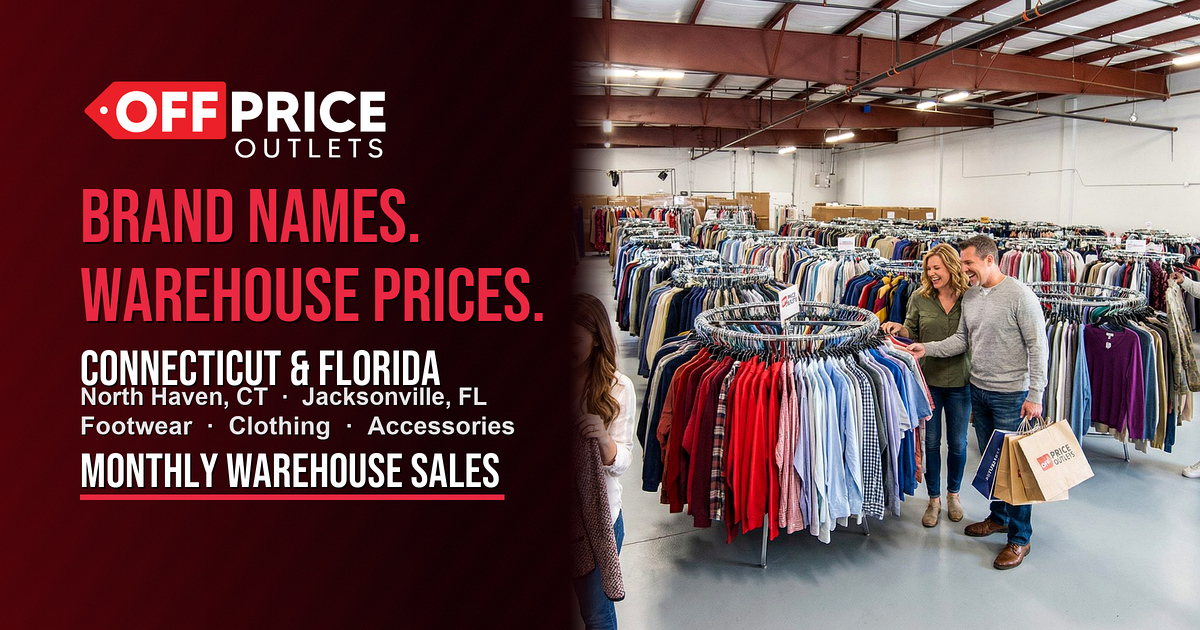
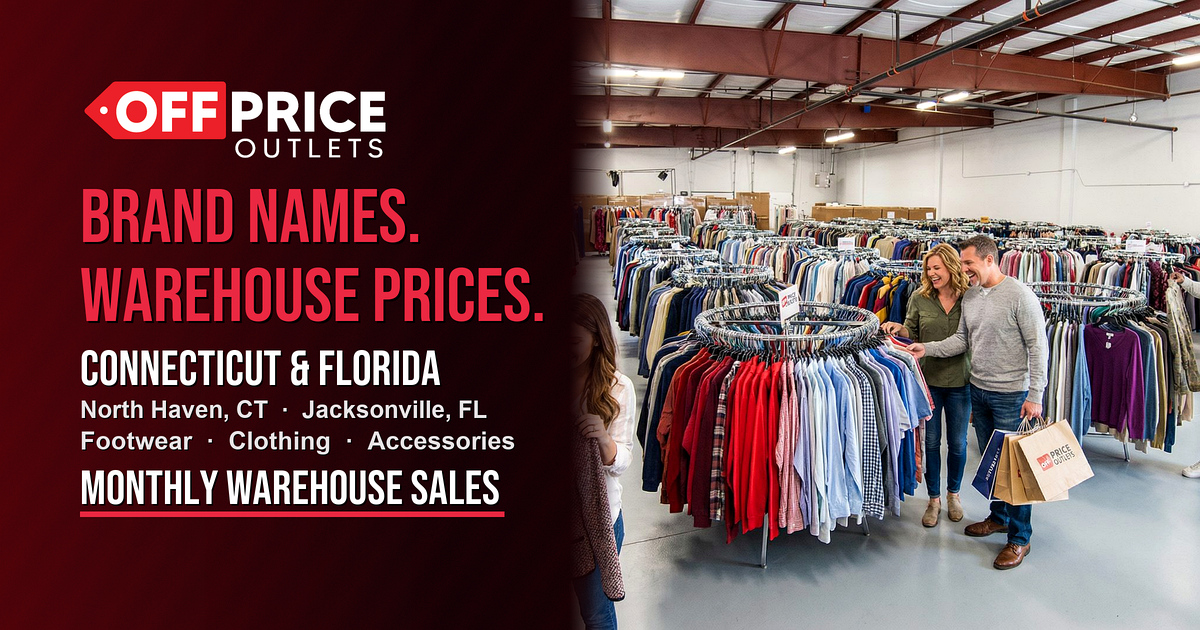
Add breathing room between state header and city lines on OG image.

Changed region(s): [[0.0617, 0.6032, 0.4317, 0.8444]]

diff --git a/index.html b/index.html
@@ -21,8 +21,8 @@
     <meta property="og:url" content="https://offpriceoutlets.com/">
     <meta property="og:title" content="Off Price Outlets | Connecticut &amp; Florida Monthly Warehouse Sales">
     <meta property="og:description" content="Two locations: North Haven, CT and Jacksonville, FL. FL grand opening Oct 10–11 · 10 AM–4 PM. Brand-name clothing, footwear &amp; accessories at warehouse prices.">
-    <meta property="og:image" content="https://offpriceoutlets.com/images/og-image.jpg?v=84">
-    <meta property="og:image:secure_url" content="https://offpriceoutlets.com/images/og-image.jpg?v=84">
+    <meta property="og:image" content="https://offpriceoutlets.com/images/og-image.jpg?v=85">
+    <meta property="og:image:secure_url" content="https://offpriceoutlets.com/images/og-image.jpg?v=85">
     <meta property="og:image:type" content="image/jpeg">
     <meta property="og:image:width" content="1200">
     <meta property="og:image:height" content="630">
@@ -32,7 +32,7 @@
     <meta name="twitter:card" content="summary_large_image">
     <meta name="twitter:title" content="Off Price Outlets | Connecticut &amp; Florida Monthly Warehouse Sales">
     <meta name="twitter:description" content="Two locations: North Haven, CT and Jacksonville, FL. FL grand opening Oct 10–11 · 10 AM–4 PM.">
-    <meta name="twitter:image" content="https://offpriceoutlets.com/images/og-image.jpg?v=84">
+    <meta name="twitter:image" content="https://offpriceoutlets.com/images/og-image.jpg?v=85">
 
     <link rel="icon" href="images/favicon.svg?v=68" type="image/svg+xml">
     <link rel="icon" href="images/favicon-32.png?v=68" type="image/png" sizes="32x32">
@@ -57,7 +57,7 @@
           "name": "Off Price Outlets",
           "url": "https://offpriceoutlets.com/",
           "logo": "https://offpriceoutlets.com/images/logo-official.png",
-          "image": "https://offpriceoutlets.com/images/og-image.jpg?v=84",
+          "image": "https://offpriceoutlets.com/images/og-image.jpg?v=85",
           "description": "Off Price Outlets hosts monthly warehouse sales with brand-name men's and women's clothing, footwear, and accessories at warehouse prices—often up to 90% off retail. Locations in North Haven, Connecticut and Jacksonville, Florida.",
           "sameAs": [
             "https://www.instagram.com/offpriceoutletsct/",
@@ -72,7 +72,7 @@
           "name": "Off Price Outlets — North Haven",
           "parentOrganization": { "@id": "https://offpriceoutlets.com/#organization" },
           "url": "https://offpriceoutlets.com/#locations",
-          "image": "https://offpriceoutlets.com/images/og-image.jpg?v=84",
+          "image": "https://offpriceoutlets.com/images/og-image.jpg?v=85",
           "description": "Monthly warehouse sales in North Haven, Connecticut on select dates—not every weekend. Brand-name clothing, footwear, and accessories at warehouse prices.",
           "address": {
             "@type": "PostalAddress",
@@ -96,7 +96,7 @@
           "name": "Off Price Outlets — Jacksonville",
           "parentOrganization": { "@id": "https://offpriceoutlets.com/#organization" },
           "url": "https://offpriceoutlets.com/#locations",
-          "image": "https://offpriceoutlets.com/images/og-image.jpg?v=84",
+          "image": "https://offpriceoutlets.com/images/og-image.jpg?v=85",
           "description": "Off Price Outlets Jacksonville, Florida. Grand opening warehouse sale October 10–11, 2026, 10 AM–4 PM. Brand-name clothing, footwear, and accessories.",
           "address": {
             "@type": "PostalAddress",
@@ -135,7 +135,7 @@
               "addressCountry": "US"
             }
           },
-          "image": "https://offpriceoutlets.com/images/og-image.jpg?v=84",
+          "image": "https://offpriceoutlets.com/images/og-image.jpg?v=85",
           "organizer": { "@id": "https://offpriceoutlets.com/#organization" },
           "offers": {
             "@type": "AggregateOffer",

diff --git a/scripts/generate-og-image.py b/scripts/generate-og-image.py
@@ -67,10 +67,11 @@ def main() -> None:
     blocks: list[tuple[str, object, int, int]] = []
     blocks.append(("Brand names.", f_hero, 4, hero_size + 6))
     blocks.append(("Warehouse prices.", f_hero, 4, hero_size + 24))
-    blocks.append(("Connecticut & Florida", f_loc, 3, th(f_loc) + 14))
-    blocks.append(("North Haven, CT  ·  Jacksonville, FL", f_cities, 2, th(f_cities) + 12))
-    blocks.append(("Footwear  ·  Clothing  ·  Accessories", f_cat, 2, th(f_cat) + 18))
-    blocks.append((cta, f_cta, 3, th(f_cta) + 28))
+    GAP_AFTER_LOC = 40
+    blocks.append(("Connecticut & Florida", f_loc, 3, th(f_loc) + GAP_AFTER_LOC))
+    blocks.append(("North Haven, CT  ·  Jacksonville, FL", f_cities, 2, th(f_cities) + 16))
+    blocks.append(("Footwear  ·  Clothing  ·  Accessories", f_cat, 2, th(f_cat) + 22))
+    blocks.append((cta, f_cta, 3, th(f_cta) + 36))
 
     max_text_x = x + logo_w
     for text, font, _shadow, advance in blocks:
